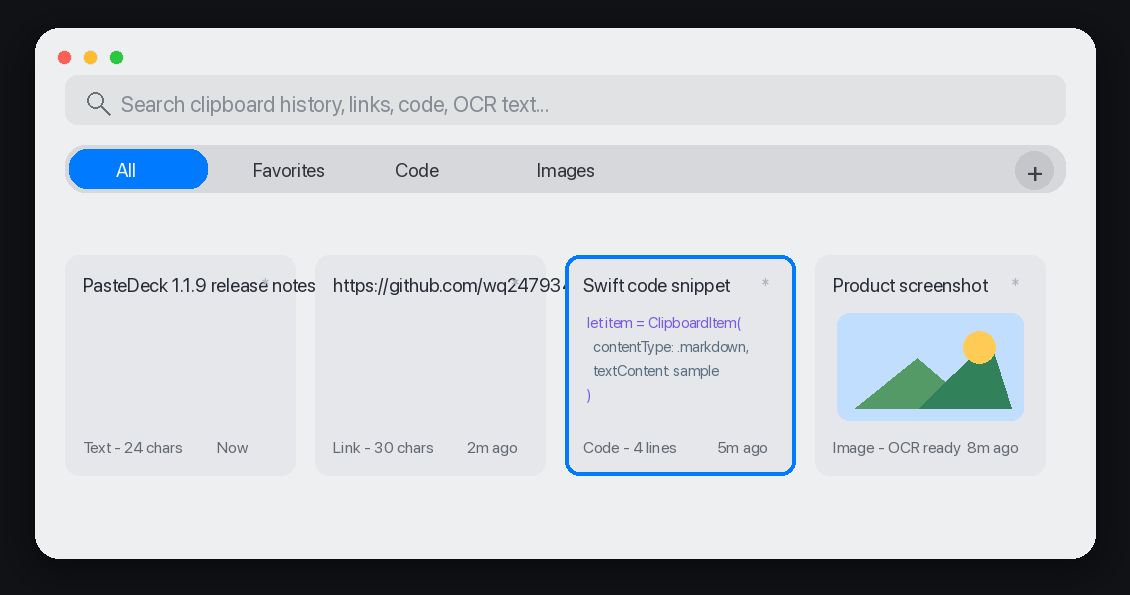
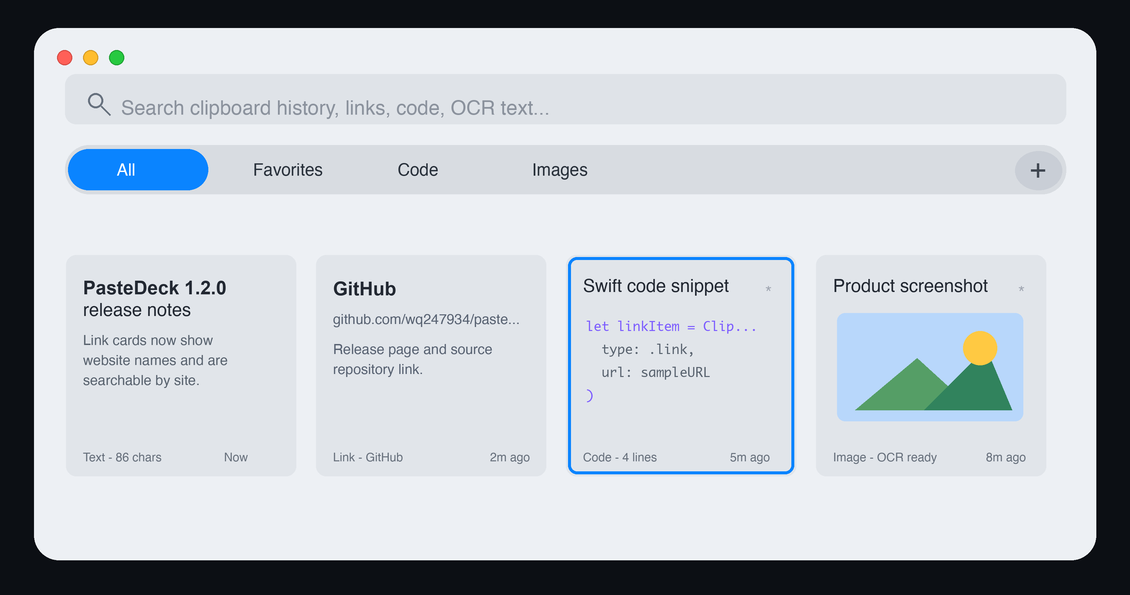
Add link website names and bump to 1.2.0

diff --git a/PasteDeck/PasteDeck/Models/ClipboardItem.swift b/PasteDeck/PasteDeck/Models/ClipboardItem.swift
@@ -59,7 +59,7 @@ final class ClipboardItem {
         case .text, .markdown, .json:
             return String((textContent?.prefix(50) ?? "").replacingOccurrences(of: "\n", with: " "))
         case .link:
-            return textContent ?? ""
+            return linkWebsiteName ?? textContent ?? ""
         case .image:
             return "图片 \(imageWidth)x\(imageHeight)"
         case .file:
@@ -104,6 +104,32 @@ final class ClipboardItem {
 
     var isCleanupEligible: Bool {
         !isPinned && (collections?.isEmpty ?? true)
+    }
+
+    var linkWebsiteName: String? {
+        guard contentType == .link else { return nil }
+        return Self.makeLinkWebsiteName(from: textContent)
+    }
+
+    static func makeLinkWebsiteName(from textContent: String?) -> String? {
+        guard let host = normalizedLinkHost(from: textContent) else { return nil }
+        guard let label = primaryDomainLabel(from: host) else { return host }
+        return prettifyWebsiteName(label)
+    }
+
+    static func makeLinkSearchText(from textContent: String?) -> String? {
+        guard let host = normalizedLinkHost(from: textContent) else { return nil }
+        let label = primaryDomainLabel(from: host)
+        let parts = [
+            label.map { prettifyWebsiteName($0) },
+            label,
+            host,
+            host.replacingOccurrences(of: ".", with: " ")
+        ]
+            .compactMap { $0 }
+            .filter { !$0.isEmpty }
+
+        return parts.isEmpty ? nil : parts.joined(separator: " ")
     }
 
     // MARK: - Initialization
@@ -151,6 +177,93 @@ final class ClipboardItem {
         guard let hex = colorHex else { return nil }
         return Color(hex: hex)
     }
+
+    private static func normalizedLinkHost(from textContent: String?) -> String? {
+        guard let rawText = textContent?.trimmingCharacters(in: .whitespacesAndNewlines), !rawText.isEmpty else {
+            return nil
+        }
+
+        let candidate = rawText.contains("://") ? rawText : "https://\(rawText)"
+        guard let rawHost = URLComponents(string: candidate)?.host ?? URL(string: candidate)?.host else {
+            return nil
+        }
+
+        let trimmedHost = rawHost
+            .lowercased()
+            .trimmingCharacters(in: CharacterSet(charactersIn: "."))
+
+        guard !trimmedHost.isEmpty else { return nil }
+
+        if trimmedHost.hasPrefix("www.") {
+            return String(trimmedHost.dropFirst(4))
+        }
+
+        return trimmedHost
+    }
+
+    private static func primaryDomainLabel(from host: String) -> String? {
+        let labels = host
+            .split(separator: ".")
+            .map(String.init)
+
+        guard labels.count >= 2 else {
+            return host.isEmpty ? nil : host
+        }
+
+        let suffix = labels.suffix(2).joined(separator: ".")
+        if labels.count >= 3, compoundPublicSuffixes.contains(suffix) {
+            return labels[labels.count - 3]
+        }
+
+        return labels[labels.count - 2]
+    }
+
+    private static func prettifyWebsiteName(_ label: String) -> String {
+        let normalizedLabel = label.lowercased()
+        if let override = websiteNameOverrides[normalizedLabel] {
+            return override
+        }
+
+        return label
+            .split { $0 == "-" || $0 == "_" }
+            .map { $0.capitalized }
+            .joined(separator: " ")
+    }
+
+    private static let compoundPublicSuffixes: Set<String> = [
+        "co.jp",
+        "co.kr",
+        "co.uk",
+        "com.au",
+        "com.br",
+        "com.cn",
+        "com.hk",
+        "com.sg",
+        "com.tw",
+        "github.io",
+        "gov.cn",
+        "net.cn",
+        "org.cn"
+    ]
+
+    private static let websiteNameOverrides: [String: String] = [
+        "apple": "Apple",
+        "baidu": "Baidu",
+        "bilibili": "Bilibili",
+        "figma": "Figma",
+        "github": "GitHub",
+        "google": "Google",
+        "linkedin": "LinkedIn",
+        "medium": "Medium",
+        "notion": "Notion",
+        "openai": "OpenAI",
+        "reddit": "Reddit",
+        "stackoverflow": "Stack Overflow",
+        "twitter": "Twitter",
+        "x": "X",
+        "youtube": "YouTube",
+        "zhihu": "Zhihu"
+    ]
 }
 
 // MARK: - Color Extension for Hex

diff --git a/PasteDeck/PasteDeck/Services/ClipboardHistoryStore.swift b/PasteDeck/PasteDeck/Services/ClipboardHistoryStore.swift
@@ -39,6 +39,7 @@ struct ClipboardItemSnapshot: Identifiable, Equatable, Sendable {
     let ocrText: String?
     let colorHex: String?
     let sourceApp: String?
+    let linkWebsiteName: String?
     let createdAt: Date
     let isPinned: Bool
     let customTitle: String?
@@ -70,6 +71,7 @@ struct ClipboardItemSnapshot: Identifiable, Equatable, Sendable {
         ocrText = item.ocrText
         colorHex = item.colorHex
         sourceApp = item.sourceApp
+        linkWebsiteName = item.linkWebsiteName
         createdAt = item.createdAt
         isPinned = item.isPinned
         customTitle = item.customTitle
@@ -84,6 +86,7 @@ struct ClipboardItemSnapshot: Identifiable, Equatable, Sendable {
             }
             .sorted { $0.sortOrder < $1.sortOrder }
 
+        let linkSearchText = item.contentType == .link ? ClipboardItem.makeLinkSearchText(from: item.textContent) : nil
         let title = ClipboardItemSnapshot.makeDisplayTitle(
             contentType: item.contentType,
             textContent: item.textContent,
@@ -91,11 +94,14 @@ struct ClipboardItemSnapshot: Identifiable, Equatable, Sendable {
             imageWidth: item.imageWidth,
             imageHeight: item.imageHeight,
             colorHex: item.colorHex,
+            linkWebsiteName: linkWebsiteName,
             customTitle: item.customTitle
         )
 
         searchBlob = [
             title,
+            linkWebsiteName,
+            linkSearchText,
             item.textContent,
             item.fileName,
             item.filePath,
@@ -125,6 +131,7 @@ struct ClipboardItemSnapshot: Identifiable, Equatable, Sendable {
             imageWidth: imageWidth,
             imageHeight: imageHeight,
             colorHex: colorHex,
+            linkWebsiteName: linkWebsiteName,
             customTitle: customTitle
         )
     }
@@ -156,6 +163,7 @@ struct ClipboardItemSnapshot: Identifiable, Equatable, Sendable {
         imageWidth: Int,
         imageHeight: Int,
         colorHex: String?,
+        linkWebsiteName: String?,
         customTitle: String?
     ) -> String {
         if let customTitle, !customTitle.isEmpty {
@@ -166,7 +174,7 @@ struct ClipboardItemSnapshot: Identifiable, Equatable, Sendable {
         case .text, .markdown, .json:
             return String((textContent?.prefix(50) ?? "").replacingOccurrences(of: "\n", with: " "))
         case .link:
-            return textContent ?? ""
+            return linkWebsiteName ?? textContent ?? ""
         case .image:
             return "图片 \(imageWidth)x\(imageHeight)"
         case .file:

diff --git a/PasteDeck/PasteDeck/Views/MainWindow/ClipCardView.swift b/PasteDeck/PasteDeck/Views/MainWindow/ClipCardView.swift
@@ -83,6 +83,12 @@ struct ClipCardView: View, Equatable {
             && lhs.isMultiSelected == rhs.isMultiSelected
             && lhs.showPinOption == rhs.showPinOption
             && lhs.cardSize == rhs.cardSize
+            && lhs.item.contentType == rhs.item.contentType
+            && lhs.item.textContent == rhs.item.textContent
+            && lhs.item.linkWebsiteName == rhs.item.linkWebsiteName
+            && lhs.item.fileName == rhs.item.fileName
+            && lhs.item.imagePath == rhs.item.imagePath
+            && lhs.item.colorHex == rhs.item.colorHex
             && lhs.item.isPinned == rhs.item.isPinned
             && lhs.item.isFavorite == rhs.item.isFavorite
             && lhs.item.customTitle == rhs.item.customTitle
@@ -270,10 +276,18 @@ struct ClipCardView: View, Equatable {
                 .font(.system(size: 17, weight: .semibold))
                 .foregroundColor(.accentColor)
 
+            if let websiteName = item.linkWebsiteName {
+                Text(websiteName)
+                    .font(.system(size: 15, weight: .semibold))
+                    .foregroundColor(.primary)
+                    .lineLimit(2)
+                    .multilineTextAlignment(.leading)
+            }
+
             Text(item.textContent ?? "")
-                .font(.system(size: 12, weight: .medium))
-                .foregroundColor(.primary)
-                .lineLimit(5)
+                .font(.system(size: item.linkWebsiteName == nil ? 12 : 11, weight: item.linkWebsiteName == nil ? .medium : .regular))
+                .foregroundColor(item.linkWebsiteName == nil ? .primary : .secondary)
+                .lineLimit(item.linkWebsiteName == nil ? 5 : 4)
                 .multilineTextAlignment(.leading)
         }
         .padding(.horizontal, 10)

diff --git a/PasteDeck/PasteDeck/Views/Settings/SettingsWindow.swift b/PasteDeck/PasteDeck/Views/Settings/SettingsWindow.swift
@@ -1001,7 +1001,7 @@ struct AdvancedSettingsView: View {
                 HStack {
                     Text("版本")
                     Spacer()
-                    Text("1.1.9")
+                    Text("1.2.0")
                         .foregroundColor(.secondary)
                 }
             }

diff --git a/README.md b/README.md
@@ -7,6 +7,7 @@ PasteDeck is a native macOS clipboard manager for quickly searching, previewing,
 ## Highlights
 
 - Records clipboard history for text, rich text, links, Markdown, JSON, images, files, and colors.
+- Shows website names for link cards and lets link history be searched by site name.
 - Opens from the menu bar or the global shortcut `Command + Shift + V`.
 - Provides fast keyboard navigation, favorite filters, custom collections, pinning, deletion, and batch paste.
 - Preserves RTF data for rich text paste and supports plain-text paste with `Shift + Enter`.
@@ -20,7 +21,7 @@ PasteDeck is a native macOS clipboard manager for quickly searching, previewing,
 
 ### Download
 
-1. Download `PasteDeck-1.1.9.dmg` from [Releases](https://github.com/wq247934/paste-deck/releases).
+1. Download `PasteDeck-1.2.0.dmg` from [Releases](https://github.com/wq247934/paste-deck/releases).
 2. Open the DMG.
 3. Drag `PasteDeck.app` into Applications.
 4. Launch PasteDeck from Applications.
@@ -124,6 +125,7 @@ PasteDeck 是一个原生 macOS 剪贴板管理器，用浮动面板快速搜索
 ## 功能亮点
 
 - 记录文本、富文本、链接、Markdown、JSON、图片、文件和颜色。
+- 链接卡片会显示网站名称，并支持按网站名搜索链接历史。
 - 支持菜单栏打开，也支持全局快捷键 `Command + Shift + V`。
 - 支持键盘导航、收藏筛选、自定义收藏夹、置顶、删除和批量粘贴。
 - 保留 RTF 富文本数据，并支持 `Shift + Enter` 纯文本粘贴。
@@ -135,7 +137,7 @@ PasteDeck 是一个原生 macOS 剪贴板管理器，用浮动面板快速搜索
 
 ## 安装
 
-1. 从 [Releases](https://github.com/wq247934/paste-deck/releases) 下载 `PasteDeck-1.1.9.dmg`。
+1. 从 [Releases](https://github.com/wq247934/paste-deck/releases) 下载 `PasteDeck-1.2.0.dmg`。
 2. 打开 DMG。
 3. 将 `PasteDeck.app` 拖入“应用程序”。
 4. 从“应用程序”启动 PasteDeck。
